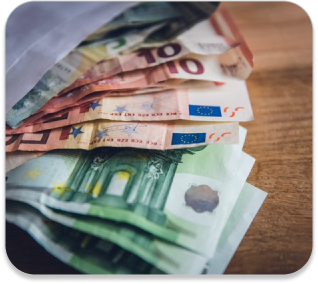
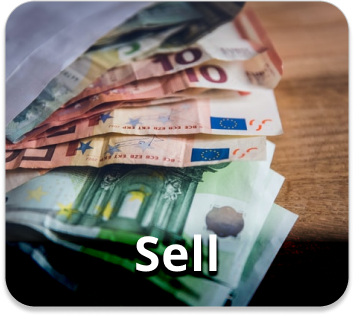
Hover effects and changed images

diff --git a/frontend/src/components/pages/Home/thirdSection.js b/frontend/src/components/pages/Home/thirdSection.js
@@ -44,26 +44,30 @@ function thirdSection() {
             <div className="section">
                 <p className="mainText">Top Listings</p>
                 <div className="secondSectionContainer">
-                <div className="listingBox">
-                        <p className="listingImg"><img src={Listing1} alt="First Listing" /></p>
-                        <p className="listingTitle">
-                            Ventura St. 3892, St Louis
-                        </p>
-                        <div className="listingStats">
-                            <p className="listingPrice">600.000$</p>
-                            <p className="listingDivider"><img src={ListingDivider} alt="divider"></img></p>
-                            <p className="listingStatus">New</p>
+                    <div className="listingBox">
+                        <div className="listingTop">
+                            <p className="listingImg"><img src={Listing1} alt="First Listing" /></p>
                         </div>
-                        <div className="listingInfo">
-                            <ul className="listingInfoText">
-                                <p className="listingIcon"><IoIosBed /></p> 4
-                            </ul>
-                            <ul className="listingInfoText">
-                                <p className="listingIcon"><FaBath /></p> 2
-                            </ul>
-                            <ul className="listingInfoText">
-                                <p className="listingIcon"><FiGrid /></p> 2
-                            </ul>
+                        <div className="listingBottom">
+                            <p className="listingTitle">
+                                Ventura St. 3892, St Louis
+                            </p>
+                            <div className="listingStats">
+                                <p className="listingPrice">600.000$</p>
+                                <p className="listingDivider"><img src={ListingDivider} alt="divider"></img></p>
+                                <p className="listingStatus">New</p>
+                            </div>
+                            <div className="listingInfo">
+                                <ul className="listingInfoText">
+                                    <p className="listingIcon"><IoIosBed /></p> 4
+                                </ul>
+                                <ul className="listingInfoText">
+                                    <p className="listingIcon"><FaBath /></p> 2
+                                </ul>
+                                <ul className="listingInfoText">
+                                    <p className="listingIcon"><FiGrid /></p> 2
+                                </ul>
+                            </div>
                         </div>
                     </div>
                     <div className="listingBox">

diff --git a/frontend/src/components/pages/Home/secondSection.css b/frontend/src/components/pages/Home/secondSection.css
@@ -1,8 +1,6 @@
 .missionContainer {
     width: 1281px;
     height: 228px;
-    left: 134px;
-    top: 753px;
 
     background: #98D4FF;
     border-radius: 25px;
@@ -10,7 +8,8 @@
     display: flex;
 
     margin-top: 200px;
-    margin-left: 120px;
+    margin-left: 134px;
+    margin-right: 25px;
 }
 
 .missionText {
@@ -44,67 +43,19 @@
     display: flex;
     justify-content: space-between;
 
-    max-width: 1260px;
+    max-width: 1200px;
     margin-left: auto;
     margin-right: auto;
 
     margin-top: 180px;
 }
 
-.SRBBox {
+.sellRentBuyimg {
     width: 308px;
     height: 274px;
-    left: 0px;
-    top: 0px;
-
-    border-radius: 30px;
-
-    text-align: center;
-    padding-top: 10%;
-
-    font-family: 'Open Sans', sans-serif;
-    font-style: normal;
-    font-weight: bold;
-    font-size: 38px;
-
-    color: #FFFFFF;
-
-    -webkit-text-stroke: 2px #A4D7FC;
-    text-shadow: 0px 4px 4px rgba(0, 0, 0, 0.5);
 }
 
-#sell {
-    background-image: linear-gradient(rgba(255,255,255,0.3), rgba(255,255,255,0.3)), url('./pictures/sell.png');
-}
-
-#rent {
-    background-image: linear-gradient(rgba(255,255,255,0.3), rgba(255,255,255,0.3)), url('./pictures/rent.png');
-}
-
-#buy {
-    background-image: linear-gradient(rgba(255,255,255,0.3), rgba(255,255,255,0.3)), url('./pictures/buy.png');
-}
-
-.ellipseOne {
-    width: 89px;
-    height: 93.59px;
-    position: absolute;
-    margin-top: -470px;
-    margin-left: 160px;
-}
-
-.ellipseTwo {
-    width: 123px;
-    height: 129.34px;
-    position: absolute;
-    margin-top: -272px;
-    margin-left: 1350px;
-}
-
-.ellipseThree {
-    width: 123px;
-    height: 129.34px;
-    position: absolute;
-    margin-top: 27px;
-    margin-left: -5px;
+.sellRentBuyimg:hover {
+    width: 344px;
+    height: 306px;
 }

diff --git a/frontend/src/components/pages/Home/secondSection.js b/frontend/src/components/pages/Home/secondSection.js
@@ -1,7 +1,9 @@
 import React from 'react'
 import './secondSection.css'
 import Mission from './pictures/mission.png'
-import Ellipse from './pictures/ellipse.png'
+import Sell from './pictures/sell.png'
+import Rent from './pictures/rent.png'
+import Buy from './pictures/buy.png'
 
 function secondSection() {
     return (
@@ -14,13 +16,10 @@ function secondSection() {
                 <p className="missionPic"><img src={Mission} alt="Mission Pic" /></p>
             </div>
             <div className="SRBContainer">
-                <ul className="SRBBox" id="sell">Sell</ul>
-                <ul className="SRBBox" id="rent">Rent</ul>
-                <ul className="SRBBox" id="buy">Buy</ul>
+                <img className="sellRentBuyimg" src={Sell} alt="Sell"/>
+                <img className="sellRentBuyimg" src={Rent} alt="Rent"/>
+                <img className="sellRentBuyimg" src={Buy} alt="Buy"/>
             </div>
-            <img className="ellipseOne" src={Ellipse} alt="Ellipse One" />
-            <img className="ellipseTwo" src={Ellipse} alt="Ellipse Two" />
-            <img className="ellipseThree" src={Ellipse} alt="Ellipse Three" />
         </div>
     )
 }

diff --git a/frontend/src/components/pages/Home/thirdSection.css b/frontend/src/components/pages/Home/thirdSection.css
@@ -22,7 +22,7 @@
     display: flex;
     justify-content: space-between;
 
-    max-width: 1260px;
+    max-width: 1180px;
     margin-left: auto;
     margin-right: auto;
 
@@ -39,6 +39,10 @@
     border-radius: 20px;
 
     text-align: center;
+}
+
+.chooseBox:hover {
+    border: 4px solid #A4D7FC;
 }
 
 .boxImg {
@@ -68,7 +72,7 @@
     display: flex;
     justify-content: space-between;
 
-    max-width: 1340px;
+    max-width: 1280px;
     margin-left: auto;
     margin-right: auto;
 
@@ -80,10 +84,14 @@
     height: 417px;
     
     background: #FFFFFF;
-    border: 1px solid #A4D7FC;
+    border: 1px solid #9E9393;
     box-sizing: border-box;
     border-radius: 15px;
     box-shadow: 0px 4px 4px rgba(0, 0, 0, 0.25);
+}
+
+.listingBox:hover {
+    border: 4px solid #FFD700;
 }
 
 .listingTitle {
@@ -176,6 +184,10 @@
 
     padding-right: 24px;
     padding-left: 15px;
+}
+
+.ratingBox:hover {
+    border: 4px solid #0193FD;
 }
 
 .firstColumn {

diff --git a/frontend/src/components/pages/Home/Hero.css b/frontend/src/components/pages/Home/Hero.css
@@ -19,6 +19,7 @@
     border-radius: 20px;
 
     margin-top: 100px;
+    margin-left: 30px;
 }
 
 #homeImage {
@@ -33,7 +34,7 @@
     font-size: 36px;
     line-height: 47px;
     margin-top: 100px;
-    padding-left: 20px;
+    margin-left: 55px;
 }
 
 #searchText {
